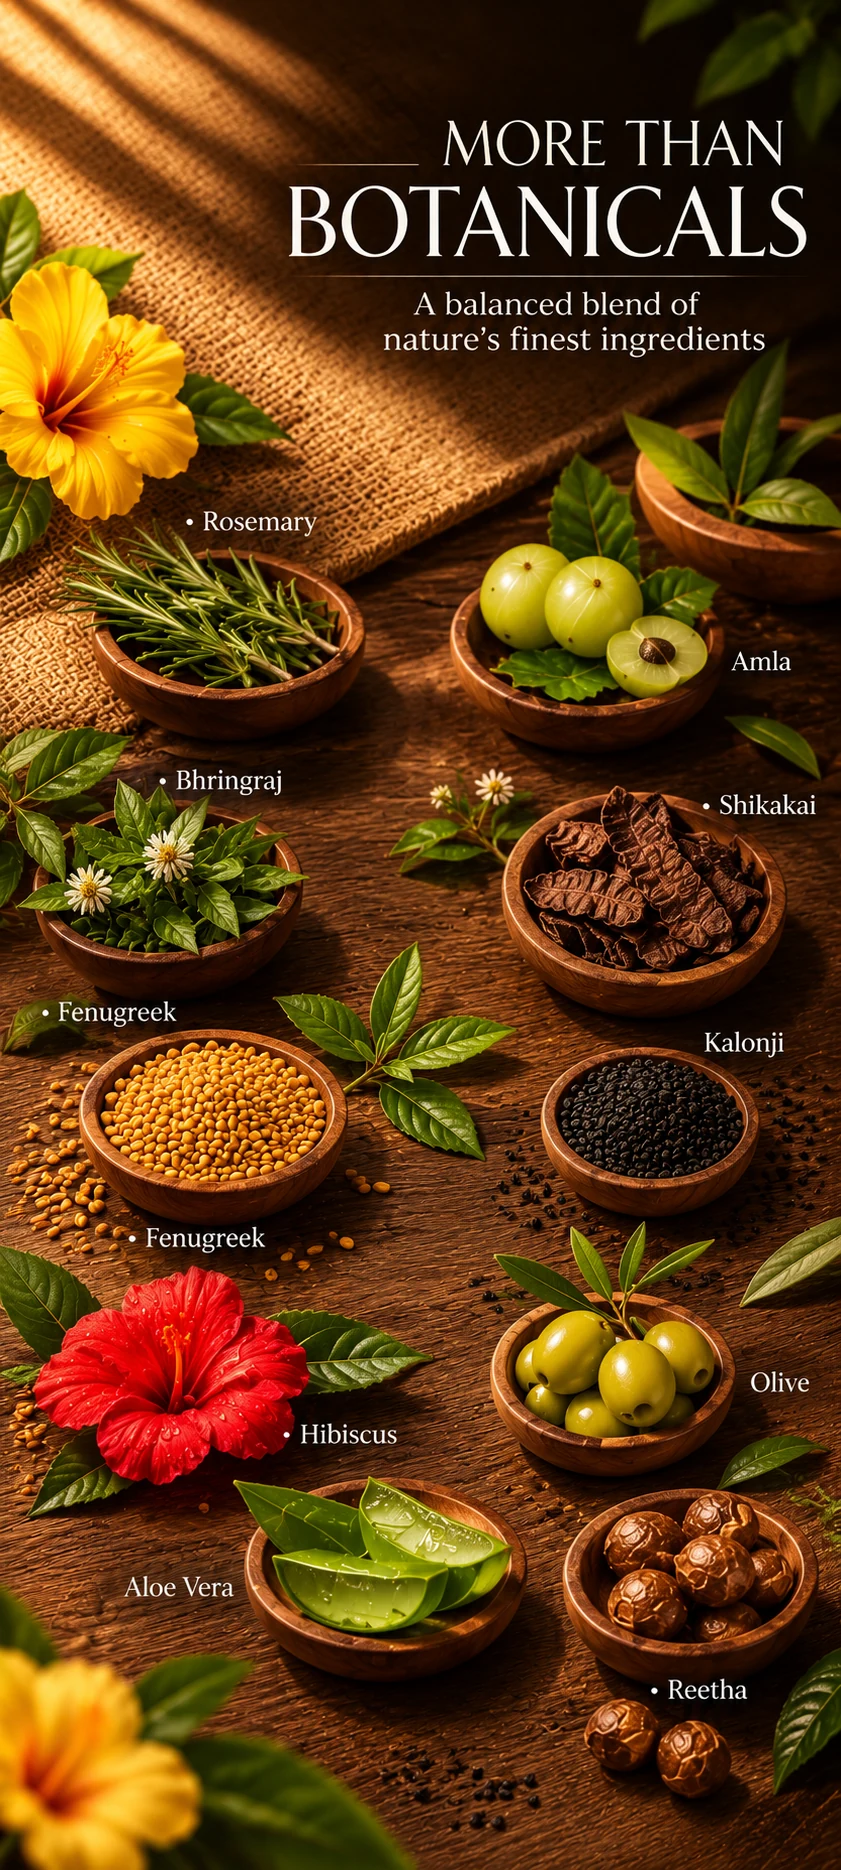
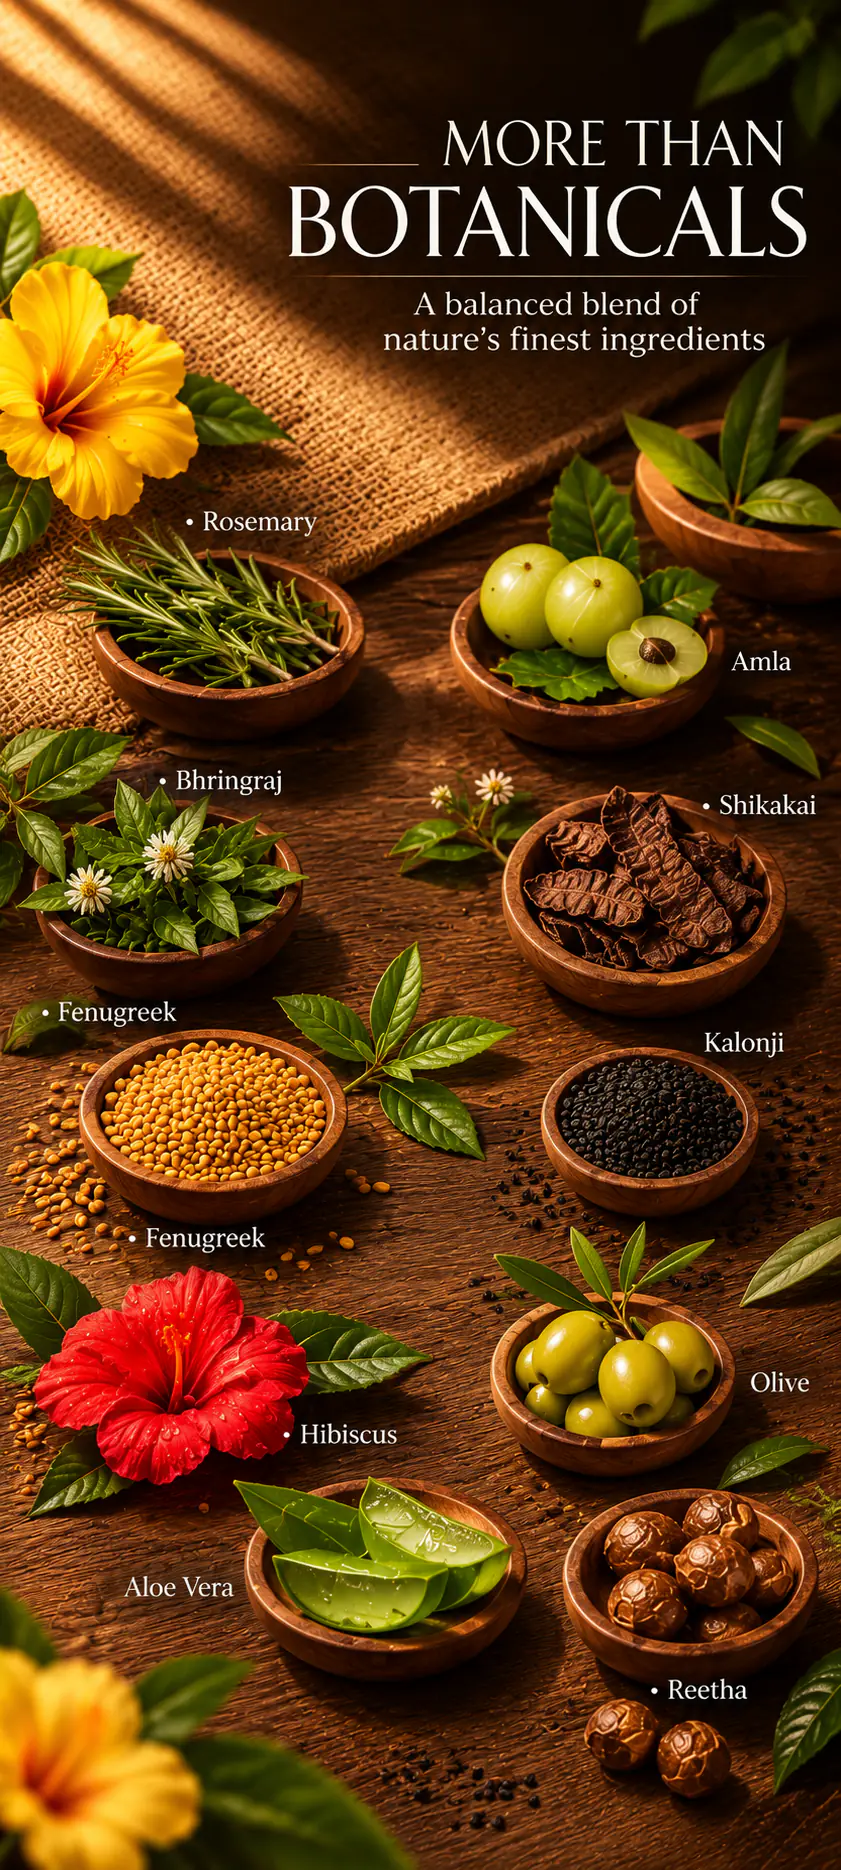
Serve the posters from the CDN instead of through the image optimizer
The hero and the two sheets are already encoded at the size they are drawn, so
the optimizer did nothing but add a function hop: a cold request for the LCP
image measured ~0.6s TTFB and every response came back max-age=0. Turning it off
lets Vercel serve the files themselves with an hour of freshness, and encoding
the masters at quality 72 instead of 88 (visually identical at 841px) cuts the
three posters from 953KB to 587KB. tools/build_hero_asset.py now matches, so a
rebuild reproduces exactly what ships.

diff --git a/ismot-next/next.config.ts b/ismot-next/next.config.ts
@@ -6,6 +6,31 @@ const nextConfig: NextConfig = {
      the server build (used only by the admin .xlsx export). */
   serverExternalPackages: ["exceljs"],
 
+  /* The posters are already delivered at the size they are drawn (841x1870
+     WebP), so the image optimizer has nothing to do but re-encode them — and on
+     Vercel that is a function hop on the LCP image, with a cache MISS measured
+     at ~0.6s before the first byte. Serving the files themselves keeps them on
+     the CDN: one request, no cold path, no per-width variants. */
+  images: { unoptimized: true },
+
+  /* Vercel hands out files in public/ with `max-age=0, must-revalidate`, so
+     every visit re-validated all three posters. They are artwork and change
+     rarely; an hour of freshness plus a day of stale-while-revalidate makes a
+     repeat visit instant without hiding a new poster for long. */
+  async headers() {
+    return [
+      {
+        source: "/:poster(hero-phone|botanicals|benefits|bottle).webp",
+        headers: [
+          {
+            key: "Cache-Control",
+            value: "public, max-age=3600, stale-while-revalidate=86400",
+          },
+        ],
+      },
+    ];
+  },
+
   /* A phone on the same Wi-Fi opens the dev server by its LAN address, and Next
      blocks non-localhost dev origins (HMR and /_next chunks) by default. These
      are this machine's DHCP addresses; add a new one if the router reassigns. */

diff --git a/tools/build_hero_asset.py b/tools/build_hero_asset.py
@@ -23,7 +23,10 @@ def main() -> None:
     for src, out in POSTERS:
         art = Image.open(src).convert("RGB")
         width, height = art.size
-        art.save(out, "WEBP", quality=88, method=6)
+        # Quality 72 is what the site ships: it is the same picture to the eye at
+        # 841 px wide and about 45% of the bytes at 88, which matters because the
+        # hero is the first thing a phone on mobile data has to download.
+        art.save(out, "WEBP", quality=72, method=6)
 
         kb = os.path.getsize(out) / 1024
         print(f"{out}: {width}x{height} ratio {width / height:.4f} ({kb:.0f} KB)")
